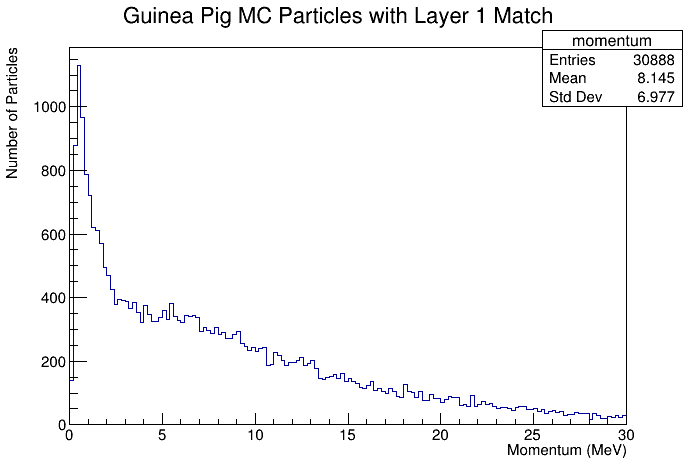
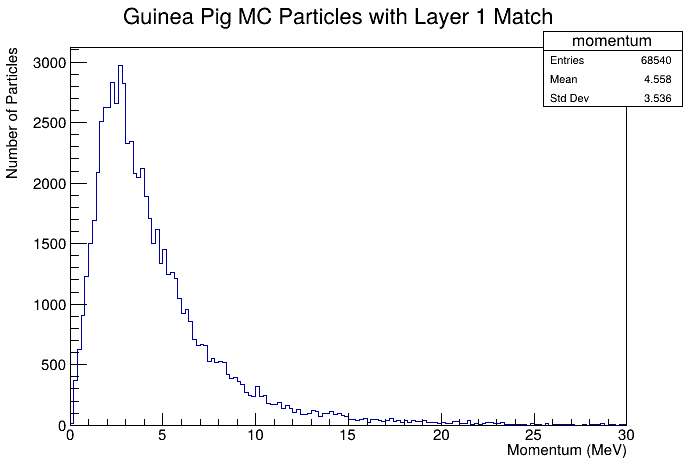
remade momentum of first layer hits plot

diff --git a/python/first_layer_momentum.py b/python/first_layer_momentum.py
@@ -1,7 +1,6 @@
 from podio import root_io
 import ROOT
 import numpy as np
-import math
 
 input_file_path = "/eos/experiment/fcc/users/b/brfranco/background_files/guineaPig_andrea_Apr2024/sim_boost_bfield_k4geo_version_Geant4TrackerAction_edep0/IDEA_01_v03_pairs_all.root"
 podio_reader = root_io.Reader(input_file_path)
@@ -21,102 +20,20 @@ def radius(hit):
             return r
     raise ValueError(f"Not close enough to any of the layers {np.sqrt(true_radius)}")
 
-def z_coord(hit):
-    """
-    Calculates z coordinate of hit.
-    Inputs: hit, SimTrackerHit object.
-    Output: z, int representing z coordinate of hit in mm.
-    """
-    true_z = hit.getPosition().z
-    for z in disk_z:
-        if abs(true_z-z) < 30:
-            return z
-    raise ValueError(f"Not close enough to any of the disks {true_z}")
-
-def phi(x,y):
-    """
-    Calculates phi of particle.
-    Inputs: x,y floats.
-    Output: phi, float representing angle in radians from 0 to 2 pi.
-    """
-    phi = math.atan(y/x)
-    if x < 0:
-        phi +=  math.pi
-    elif y < 0:
-        phi += 2*math.pi
-    return phi
-
-def theta(x,y,z):
-    """
-    Calculates theta of particle.
-    Inputs: x,y,z floats.
-    Output: theta, float representing angle in radians from 0 to pi.
-    """
-    return math.acos(z/np.sqrt(x**2 + y**2 + z**2))
-
-def delta_squared(theta_i, phi_i, xi, yi, zi, hit):
-    """
-    Calculates delta of a particle-hit pair.
-    Inputs:
-        hit, SimTracker Hit object.
-        theta_i, phi_i, floats representing direction of mc particle.
-        xi, yi, zi, floats representing position of mc particle.
-    Outputs: delta, float.
-    """
-
-    xf = hit.getPosition().x
-    yf = hit.getPosition().y
-    zf = hit.getPosition().z
-
-    delta_x = xf - xi
-    delta_y = yf - yi
-    delta_z = zf - zi
-
-    theta_f = theta(delta_x, delta_y, delta_z)
-    phi_f = phi(delta_x, delta_y)
-
-    delta_theta = theta_f - theta_i
-    delta_phi = min(abs(phi_f - phi_i), 2*math.pi - abs(phi_f - phi_i))
-
-    return delta_theta**2 + delta_phi**2
-
-def match_finder(particle):
-
-    xi = particle.getVertex().x
-    yi = particle.getVertex().y
-    zi = particle.getVertex().z
-
-    px = particle.getMomentum().x
-    py = particle.getMomentum().y
-    pz = particle.getMomentum().z
-
-    theta_i = theta(px, py, pz)
-    phi_i = phi(px, py)
-
-    for hit in hits[14]:
-        if delta_squared(theta_i, phi_i, xi, yi, zi, hit) < 0.01:
-            return True
-    return False
-
 hist = ROOT.TH1F("momentum", "Guinea Pig MC Particles with Layer 1 Match", 150, 0, 30)
 for e in range(100):
     print(f"starting event {e}")
+    visited_mc = []
     event = events[e]
-    hits = {coord: [] for coord in layer_radii}
-
-    # categorizes all hits by layer
-    for collection in ["VTXIBCollection", "VTXOBCollection"]:
-        for hit in event.get(collection):
-            hits[radius(hit)].append(hit)
-
-    for particle in event.get("MCParticles"):
-        if particle.getVertex().x**2 + particle.getVertex().y**2 > 169:
-            continue
-        if match_finder(particle):
-            px = particle.getMomentum().x
-            py = particle.getMomentum().y
-            pz = particle.getMomentum().z
-            hist.Fill(np.sqrt(px**2 + py**2 + pz**2)*1000)
+    for hit in event.get("VTXIBCollection"):
+        if radius(hit) == 14:
+            mc = hit.getMCParticle()
+            if mc in visited_mc:
+                continue
+            px = mc.getMomentum().x
+            py = mc.getMomentum().y
+            pz = mc.getMomentum().z
+            hist.Fill(1000*np.sqrt(px**2 + py**2 + pz**2))
 
 hist.GetXaxis().SetTitle("Momentum (MeV)")
 hist.GetYaxis().SetTitle("Number of Particles")
